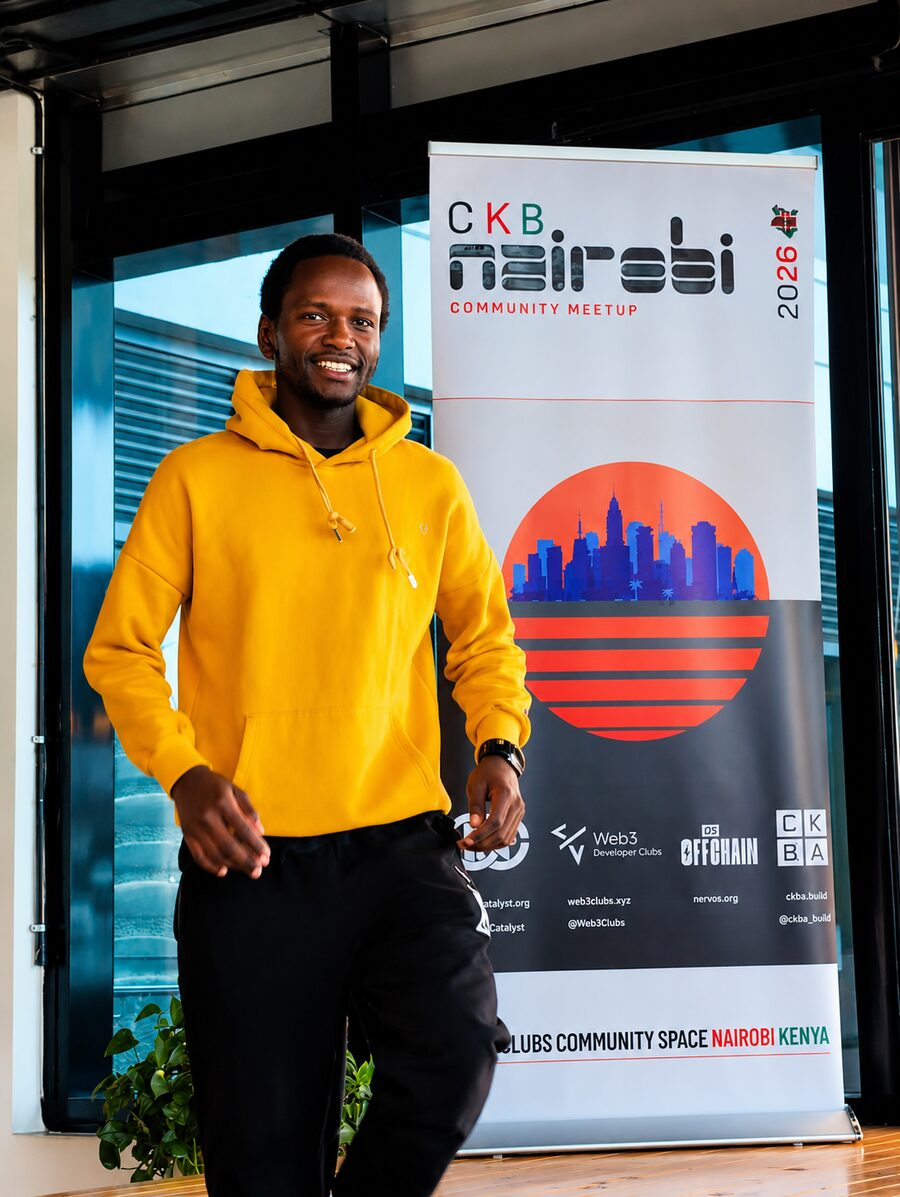
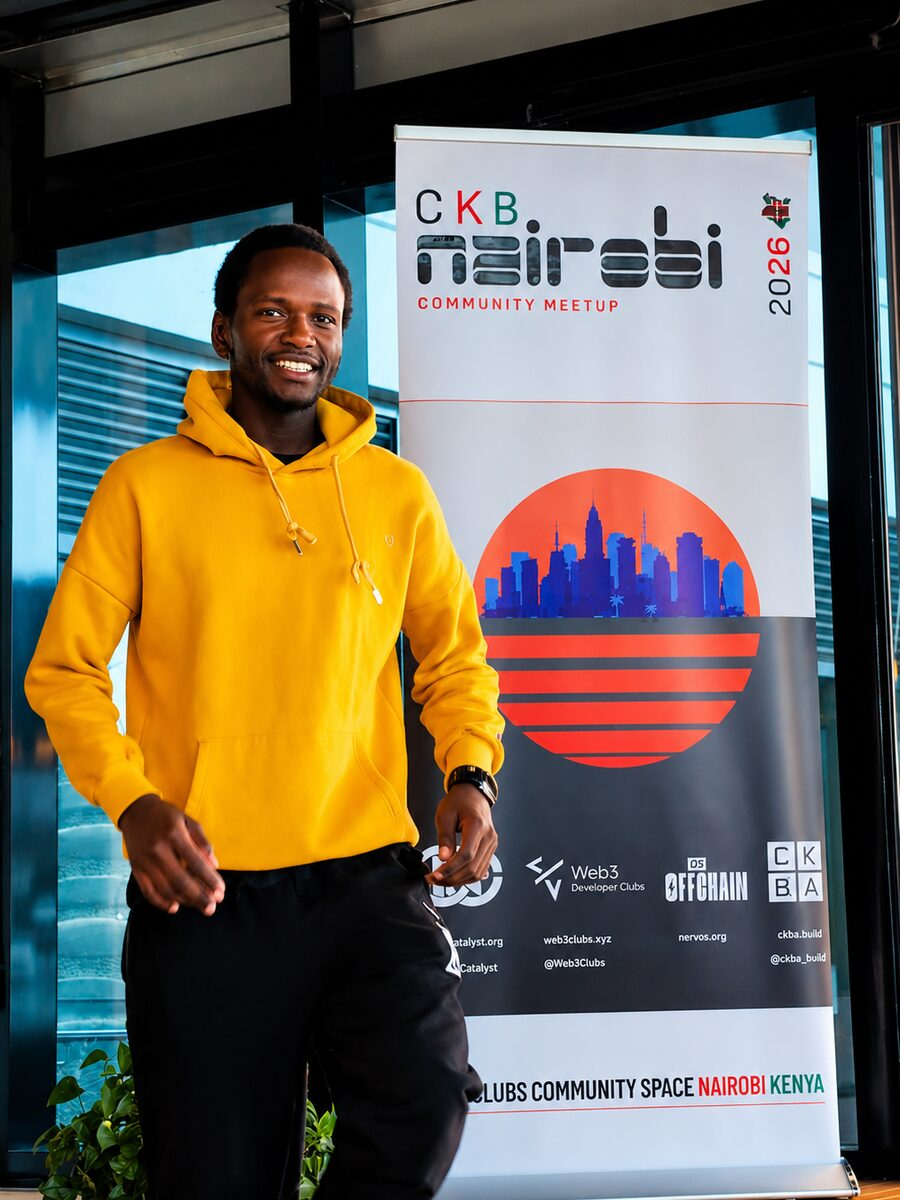
Fix hero portrait: tighter crop and flush gold outline
Re-crop from the original to remove the white wall on the left edge, and
replace the offset frame with an outline that sits exactly on the photo.

diff --git a/styles.css b/styles.css
@@ -307,28 +307,27 @@ h3 {
   display: block;
 }
 
-/* Offset gold frame behind the photo */
-.portrait-card picture::before {
+/* Thin gold outline sitting exactly on the photo's edge */
+.portrait-card picture::after {
   content: "";
   position: absolute;
-  inset: 18px -18px -18px 18px;
-  border: 1px solid var(--accent);
+  inset: 0;
+  border: 1px solid rgba(200, 164, 106, 0.45);
   border-radius: var(--radius);
-  opacity: 0.45;
+  pointer-events: none;
 }
 
 .portrait-card img {
-  position: relative;
   width: 100%;
   height: auto;
-  aspect-ratio: 900 / 1197; /* the photo's own proportions, so nothing is cropped */
+  aspect-ratio: 3 / 4; /* matches the photo file, so nothing is cropped */
   object-fit: cover;
   border-radius: var(--radius);
+  box-shadow: 0 30px 80px rgba(0, 0, 0, 0.45);
 }
 
 .portrait-card figcaption {
-  position: relative;
-  margin-top: 30px;
+  margin-top: 16px;
   font-size: 0.82rem;
   color: var(--subtle);
   letter-spacing: 0.02em;
@@ -801,14 +800,6 @@ h3 {
 
   .hero {
     padding: 56px 0 64px;
-  }
-
-  .portrait-card {
-    margin-right: 10px;
-  }
-
-  .portrait-card picture::before {
-    inset: 12px -10px -12px 10px;
   }
 
   .focus-grid,

diff --git a/index.html b/index.html
@@ -72,7 +72,7 @@
       <figure class="portrait-card">
         <picture>
           <source srcset="/assets/david-munene.webp" type="image/webp">
-          <img src="/assets/david-munene.jpg" width="900" height="1197" fetchpriority="high"
+          <img src="/assets/david-munene.jpg" width="900" height="1200" fetchpriority="high"
                alt="David Munene Njuguna smiling at the CKB Nairobi Community Meetup">
         </picture>
         <figcaption>At the CKB Nairobi Community Meetup</figcaption>
